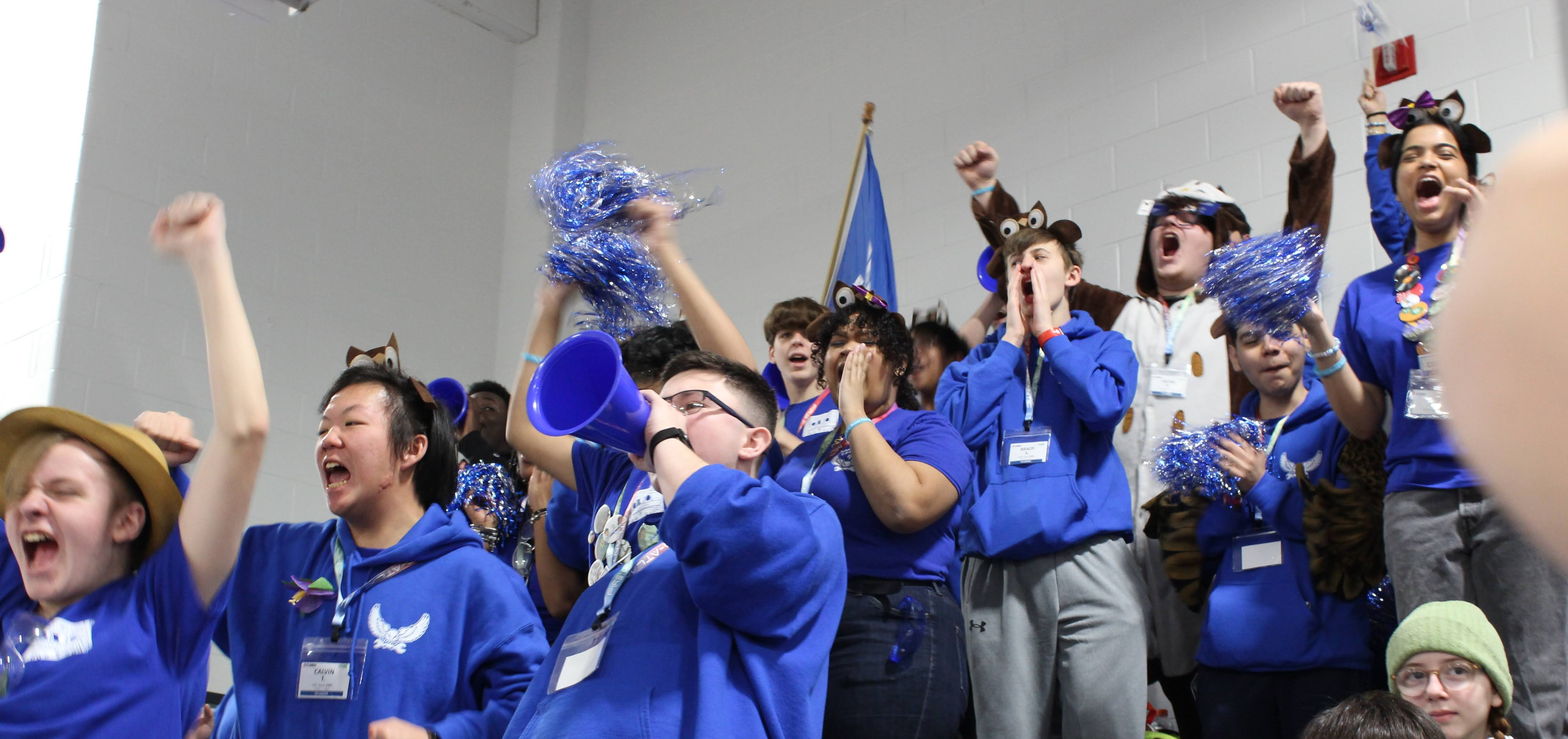
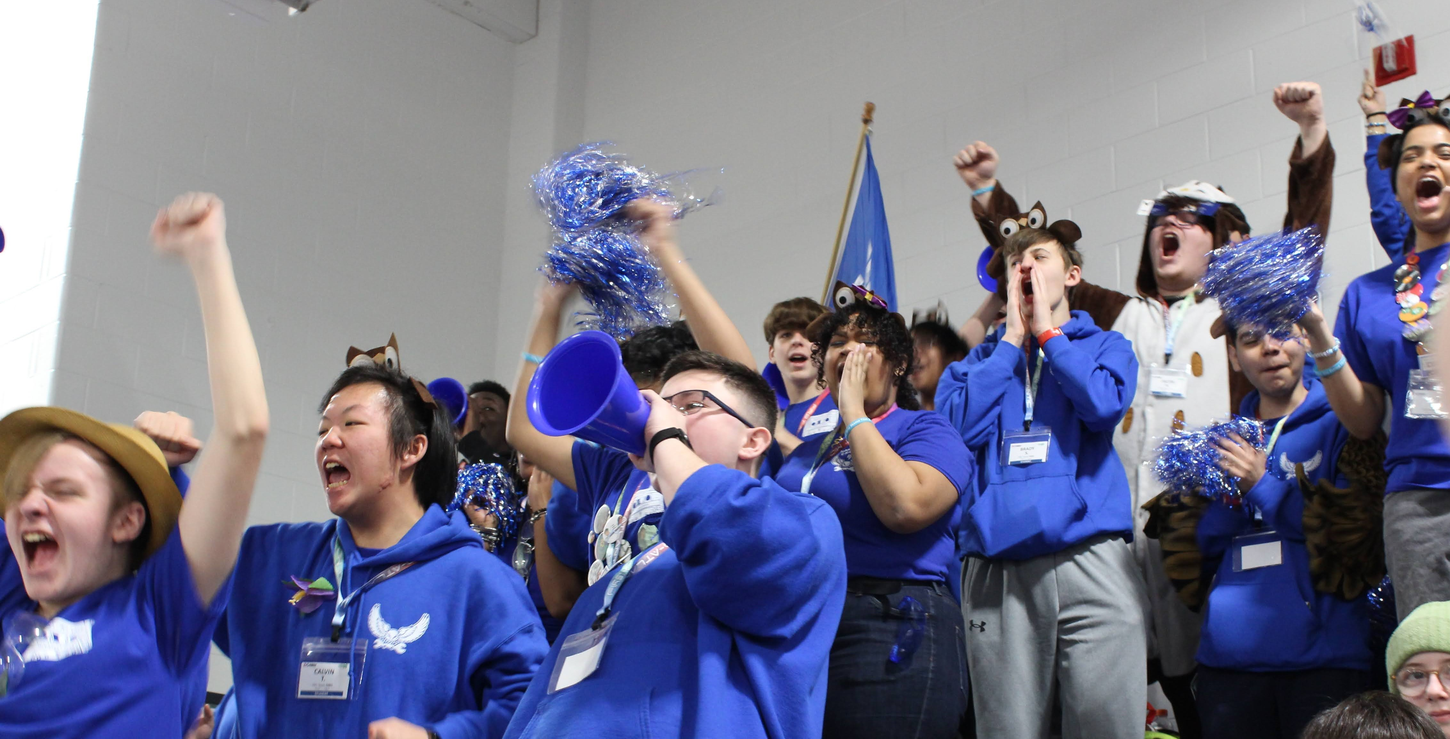
Got rid of see more button

diff --git a/themes/hugoplate/layouts/index.html b/themes/hugoplate/layouts/index.html
@@ -27,7 +27,7 @@
           </div>
           <div class="col-12">
             <div class="row justify-center">
-              {{ partial "image" (dict "Src" .image "Alt" "Banner image" "Loading" "eager" "Class" "mx-auto lg:!max-w-[800px]" "DisplayXL" "800x" ) }}
+              {{ partial "image" (dict "Src" .image "Alt" "Banner image" "Loading" "eager" "Class" "mx-auto lg:!max-w-[800px]" "DisplayXL" "1200x" ) }}
             </div>
           </div>
         </div>

diff --git a/themes/hugoplate/layouts/partials/components/blog-card.html b/themes/hugoplate/layouts/partials/components/blog-card.html
@@ -30,7 +30,4 @@
     </ul>
   {{ end }}
   <p class="mb-6">{{ .Summary }}</p>
-  <a class="btn btn-outline-primary btn-sm" href="{{ .RelPermalink }}">
-    {{ i18n "read_more" }}
-  </a>
 </div>
